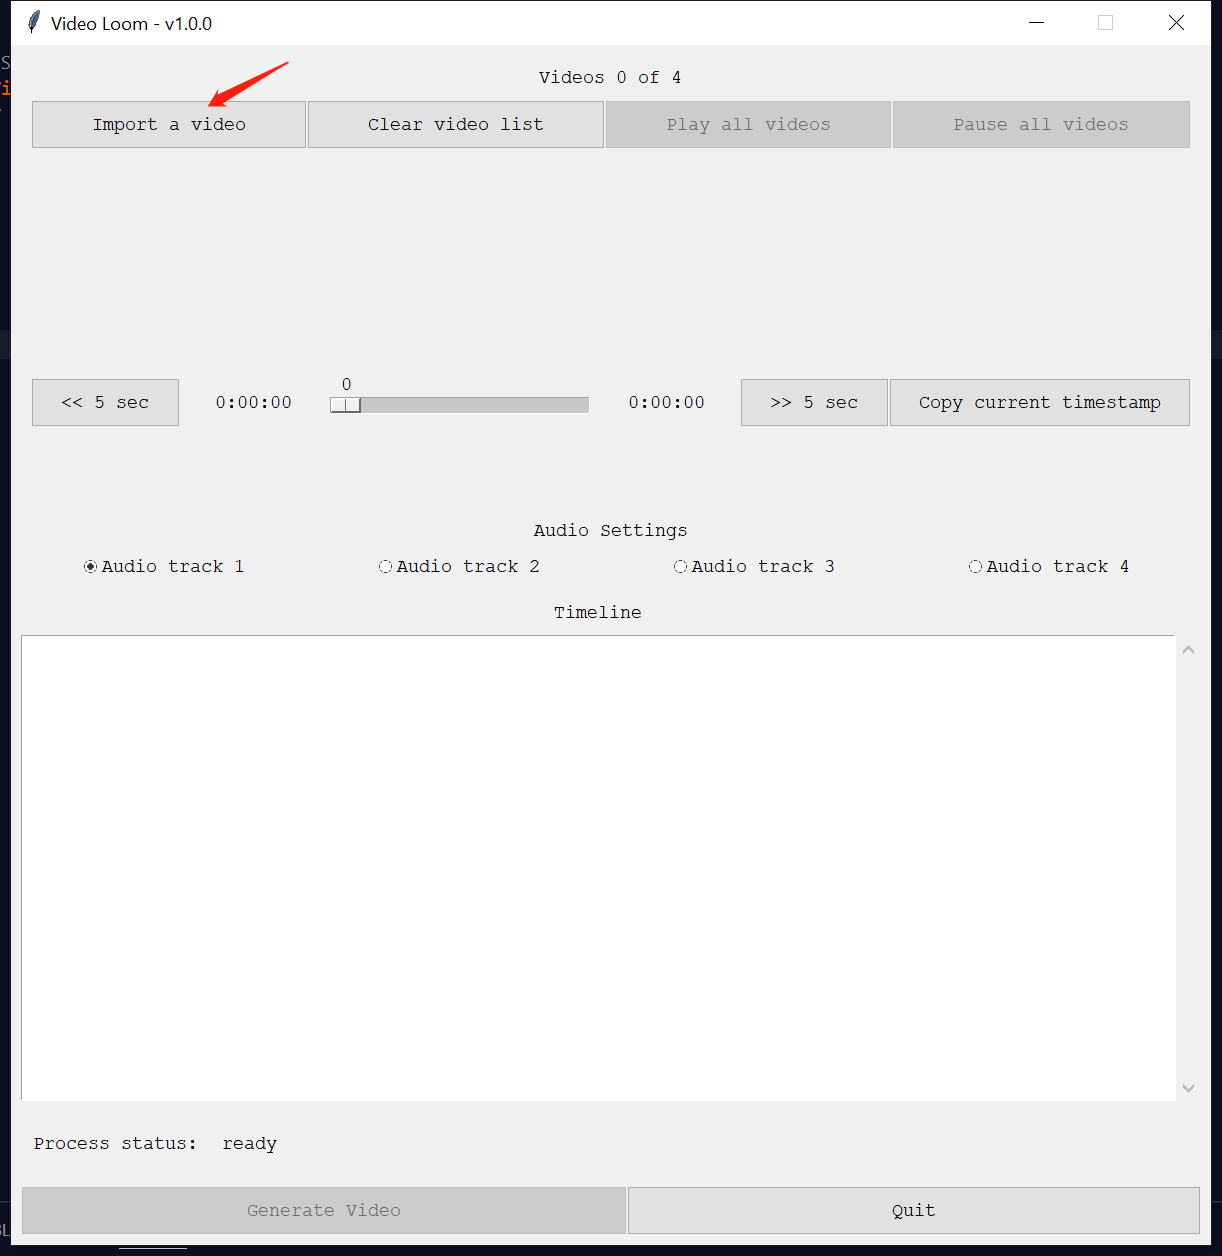
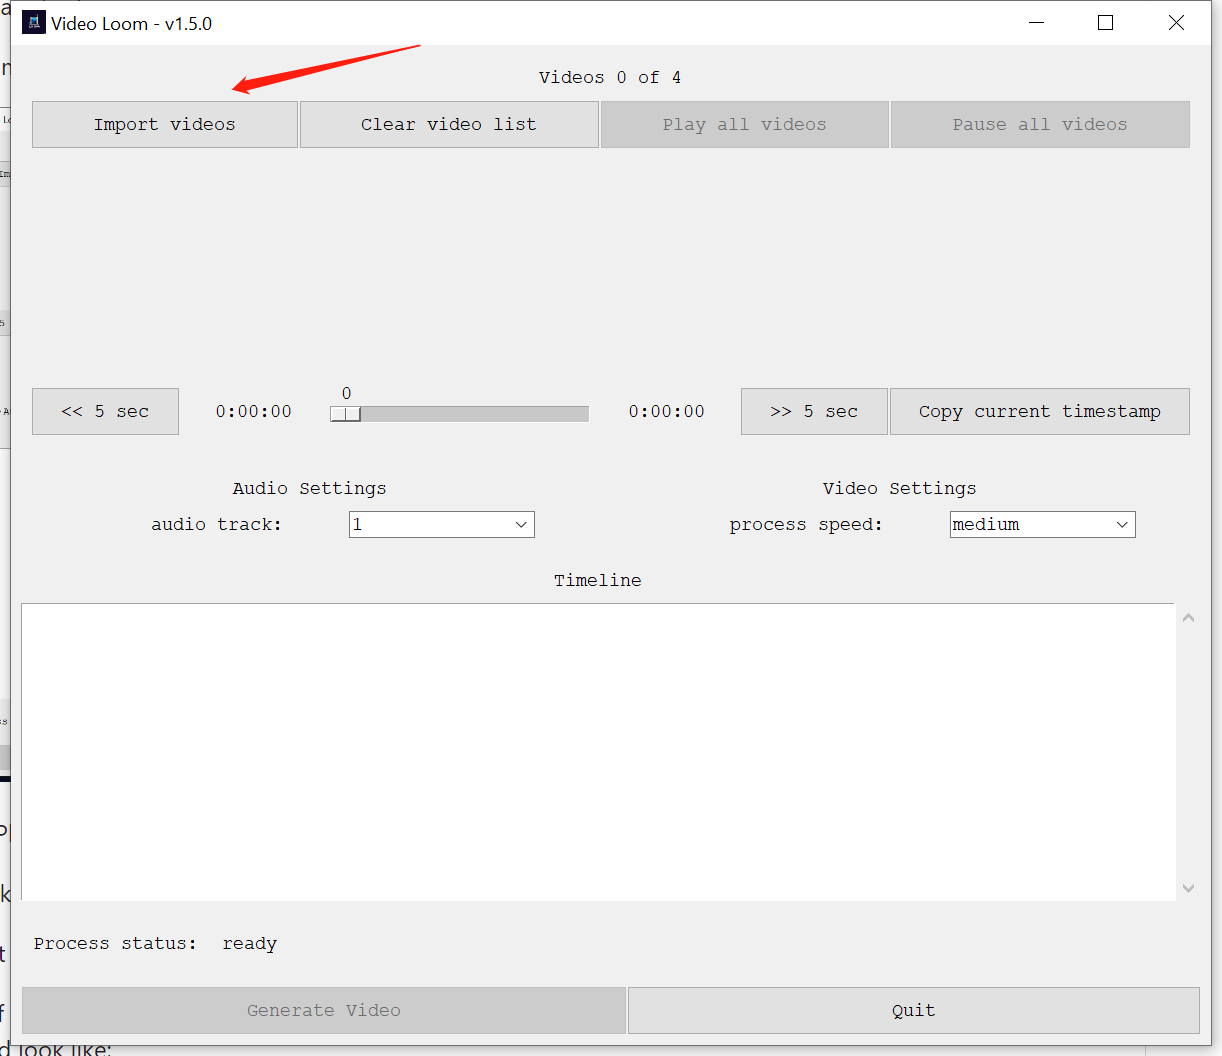
wip: added generate / remove preview audio buttons

diff --git a/src/video_frame.py b/src/video_frame.py
@@ -26,7 +26,6 @@ class VideoFrame(ttk.Frame):
         self.video_label_text = tk.StringVar(
             value=f"Videos {len(self.video_list)} of 4")
         self.output_directory = os.getcwd()
-        self.file_utils = FileUtils()
         self.output_file_name = tk.StringVar(
             value=f"{TimeUtils.get_current_timestamp()}.mp4")
         self.output_width = 0
@@ -79,12 +78,12 @@ class VideoFrame(ttk.Frame):
 
     def generate_video_with_ffmpeg(self):
         # remove output file if exists
-        self.file_utils.clean_up_temp_files()
+        FileUtils.clean_up_temp_files()
 
         # for win32|macOS, wrap the video path w/ quotes
         if self.is_filename_escaped == False:
             for idx, video in enumerate(self.video_list):
-                self.video_list[idx] = self.file_utils.escape_file_name(video)
+                self.video_list[idx] = FileUtils.escape_file_name(video)
             self.is_filename_escaped = True
 
         # calculate output video resolution
@@ -139,6 +138,7 @@ class VideoFrame(ttk.Frame):
         end_time = datetime.now()
         self.master.status_component.set_and_log_status(
             f"video is ready! Taking total of {round((end_time - start_time).total_seconds(), 2)} seconds")
+        self.master.app_refresh()
 
     def calculate_output_resolutions(self):
         self.output_width = 0
@@ -165,7 +165,7 @@ class VideoFrame(ttk.Frame):
             trimmed_output = os.path.join(
                 self.output_directory, f"trimmed_{idx}.mp4")
             self.trimmed_video_list.append(trimmed_output)
-            cmd = f"ffmpeg -i {self.video_list[int(video) - 1]} -ss {start} -to {end} -vf scale={self.output_width}:{self.output_height} -c:a copy {self.ffmpeg_preset_arg} {self.file_utils.escape_file_name(trimmed_output)}"
+            cmd = f"ffmpeg -i {self.video_list[int(video) - 1]} -ss {start} -to {end} -vf scale={self.output_width}:{self.output_height} -c:a copy {self.ffmpeg_preset_arg} {FileUtils.escape_file_name(trimmed_output)}"
             subprocess.check_output(cmd, shell=True)
         self.master.status_component.set_and_log_status(
             "completed trimming videos")
@@ -176,13 +176,13 @@ class VideoFrame(ttk.Frame):
         ffmpeg_filter = f"'[0:v][1:v]concat=n={len(self.trimmed_video_list)}:v=1:a=0'"
 
         for trimmed_video in self.trimmed_video_list:
-            input_args += f"-i {self.file_utils.escape_file_name(trimmed_video)} "
+            input_args += f"-i {FileUtils.escape_file_name(trimmed_video)} "
 
         if SysUtils.is_win32():
             # remove the single quote ' if it's windows
             ffmpeg_filter = f"[0:v][1:v]concat=n={len(self.trimmed_video_list)}:v=1:a=0"
 
-        cmd = f"ffmpeg {input_args} -filter_complex {ffmpeg_filter} -c:v libx264 -crf 23 -y -vsync 2 {self.ffmpeg_preset_arg} {self.file_utils.escape_file_name(output_file)}"
+        cmd = f"ffmpeg {input_args} -filter_complex {ffmpeg_filter} -c:v libx264 -crf 23 -y -vsync 2 {self.ffmpeg_preset_arg} {FileUtils.escape_file_name(output_file)}"
         subprocess.check_output(cmd, shell=True)
         self.master.status_component.set_and_log_status(
             "completed concatenating trimmed videos")
@@ -203,7 +203,7 @@ class VideoFrame(ttk.Frame):
     def finalize_video(self, output_file, output_sound):
         final_file = os.path.join(
             self.output_directory, self.output_file_name.get())
-        cmd = f"ffmpeg -i {self.file_utils.escape_file_name(output_file)} -i {self.file_utils.escape_file_name(output_sound)} -map 0:v -map 1:a -c copy -shortest -y -vsync 2 {self.ffmpeg_preset_arg} {self.file_utils.escape_file_name(final_file)}"
+        cmd = f"ffmpeg -i {FileUtils.escape_file_name(output_file)} -i {FileUtils.escape_file_name(output_sound)} -map 0:v -map 1:a -c copy -shortest -y -vsync 2 {self.ffmpeg_preset_arg} {FileUtils.escape_file_name(final_file)}"
         subprocess.check_output(cmd, shell=True)
         self.master.status_component.set_and_log_status(
             "video is processed and ready for use")

diff --git a/src/audio_setting_frame.py b/src/audio_setting_frame.py
@@ -1,5 +1,8 @@
+import os
 import tkinter as tk
 from tkinter import ttk
+from audio_utils import AudioUtils
+from file_utils import FileUtils
 
 
 # audio setting
@@ -14,10 +17,12 @@ class AudioSettingFrame(ttk.Frame):
         self.rowconfigure(1, weight=1)
         self.columnconfigure(0, weight=1)
         self.columnconfigure(1, weight=1)
+        self.columnconfigure(2, weight=1)
+        self.columnconfigure(3, weight=1)
 
         audio_setting_label = ttk.Label(
             self, text="Audio Settings", padding=(10))
-        audio_setting_label.grid(row=0, columnspan=2)
+        audio_setting_label.grid(row=0, columnspan=4)
 
         audio_track_label = ttk.Label(self, text="audio track:")
         audio_track_label.grid(row=1, column=0, sticky="E")
@@ -26,10 +31,52 @@ class AudioSettingFrame(ttk.Frame):
         self.audio_track_selection.grid(row=1, column=1)
         self.audio_track_selection['values'] = (1, 2, 3, 4)
         self.audio_track_selection.current(0)  # default - 1
+        self.generate_audio_preview_button = ttk.Button(
+            self, text="Generate preview", command=self.generate_audio_preview)
+        self.generate_audio_preview_button.grid(row=1, column=2)
+        self.remove_audio_preview_button = ttk.Button(
+            self, text="Remove preview", command=self.remove_audio_preview)
+        self.remove_audio_preview_button.grid(row=1, column=3, sticky="W")
+        self.remove_audio_preview_button["state"] = "disable"
+        self.audio_track_selection.bind(
+            "<<ComboboxSelected>>", self.component_refresh)
 
     def refresh(self):
         self.audio_track_selection['values'] = tuple(
             range(1, len(self.master.master.video_component.video_list) + 1))
+        self.component_refresh()
+
+    def component_refresh(self, _=None):
+        if os.path.exists(FileUtils.get_file_path(self.get_audio_preview_filename())):
+            self.generate_audio_preview_button["state"] = "disable"
+            self.remove_audio_preview_button["state"] = "enable"
+        else:
+            self.generate_audio_preview_button["state"] = "enable"
+            self.remove_audio_preview_button["state"] = "disable"
 
     def get_audio_track(self):
         return self.audio_track_variable.get()
+
+    def get_audio_preview_filename(self):
+        return f"audio_preview_{self.get_audio_track()}.mp3"
+
+    def remove_audio_preview(self):
+        if os.path.exists(FileUtils.get_file_path(self.get_audio_preview_filename())):
+            os.remove(self.get_audio_preview_filename())
+        self.component_refresh()
+
+    def generate_audio_preview(self):
+        video_list = self.master.master.video_component.video_list
+
+        # no videos imported
+        if len(video_list) == 0:
+            return
+
+        video_input = self.master.master.video_component.video_list[self.get_audio_track(
+        ) - 1]
+        audio_preview_output = self.get_audio_preview_filename()
+        AudioUtils.generate_mp3_from_mp4(
+            FileUtils.escape_file_name(video_input), audio_preview_output)
+
+        # refresh app state
+        self.master.master.app_refresh()

diff --git a/src/file_utils.py b/src/file_utils.py
@@ -8,9 +8,12 @@ class FileUtils():
     def __init__(self):
         pass
 
-    def clean_up_temp_files(self):
+    @staticmethod
+    def clean_up_temp_files():
         try:
             for f in glob.glob("*.mp4"):
+                os.remove(f)
+            for f in glob.glob("*.mp3"):
                 os.remove(f)
             for f in glob.glob("*.aac"):
                 os.remove(f)

diff --git a/changelog.md b/changelog.md
@@ -1,5 +1,9 @@
 # Versions
 
+### v1.5.0
+
+- updated readme w/ updated UI
+
 ### v1.4.3
 
 - newer logo design
